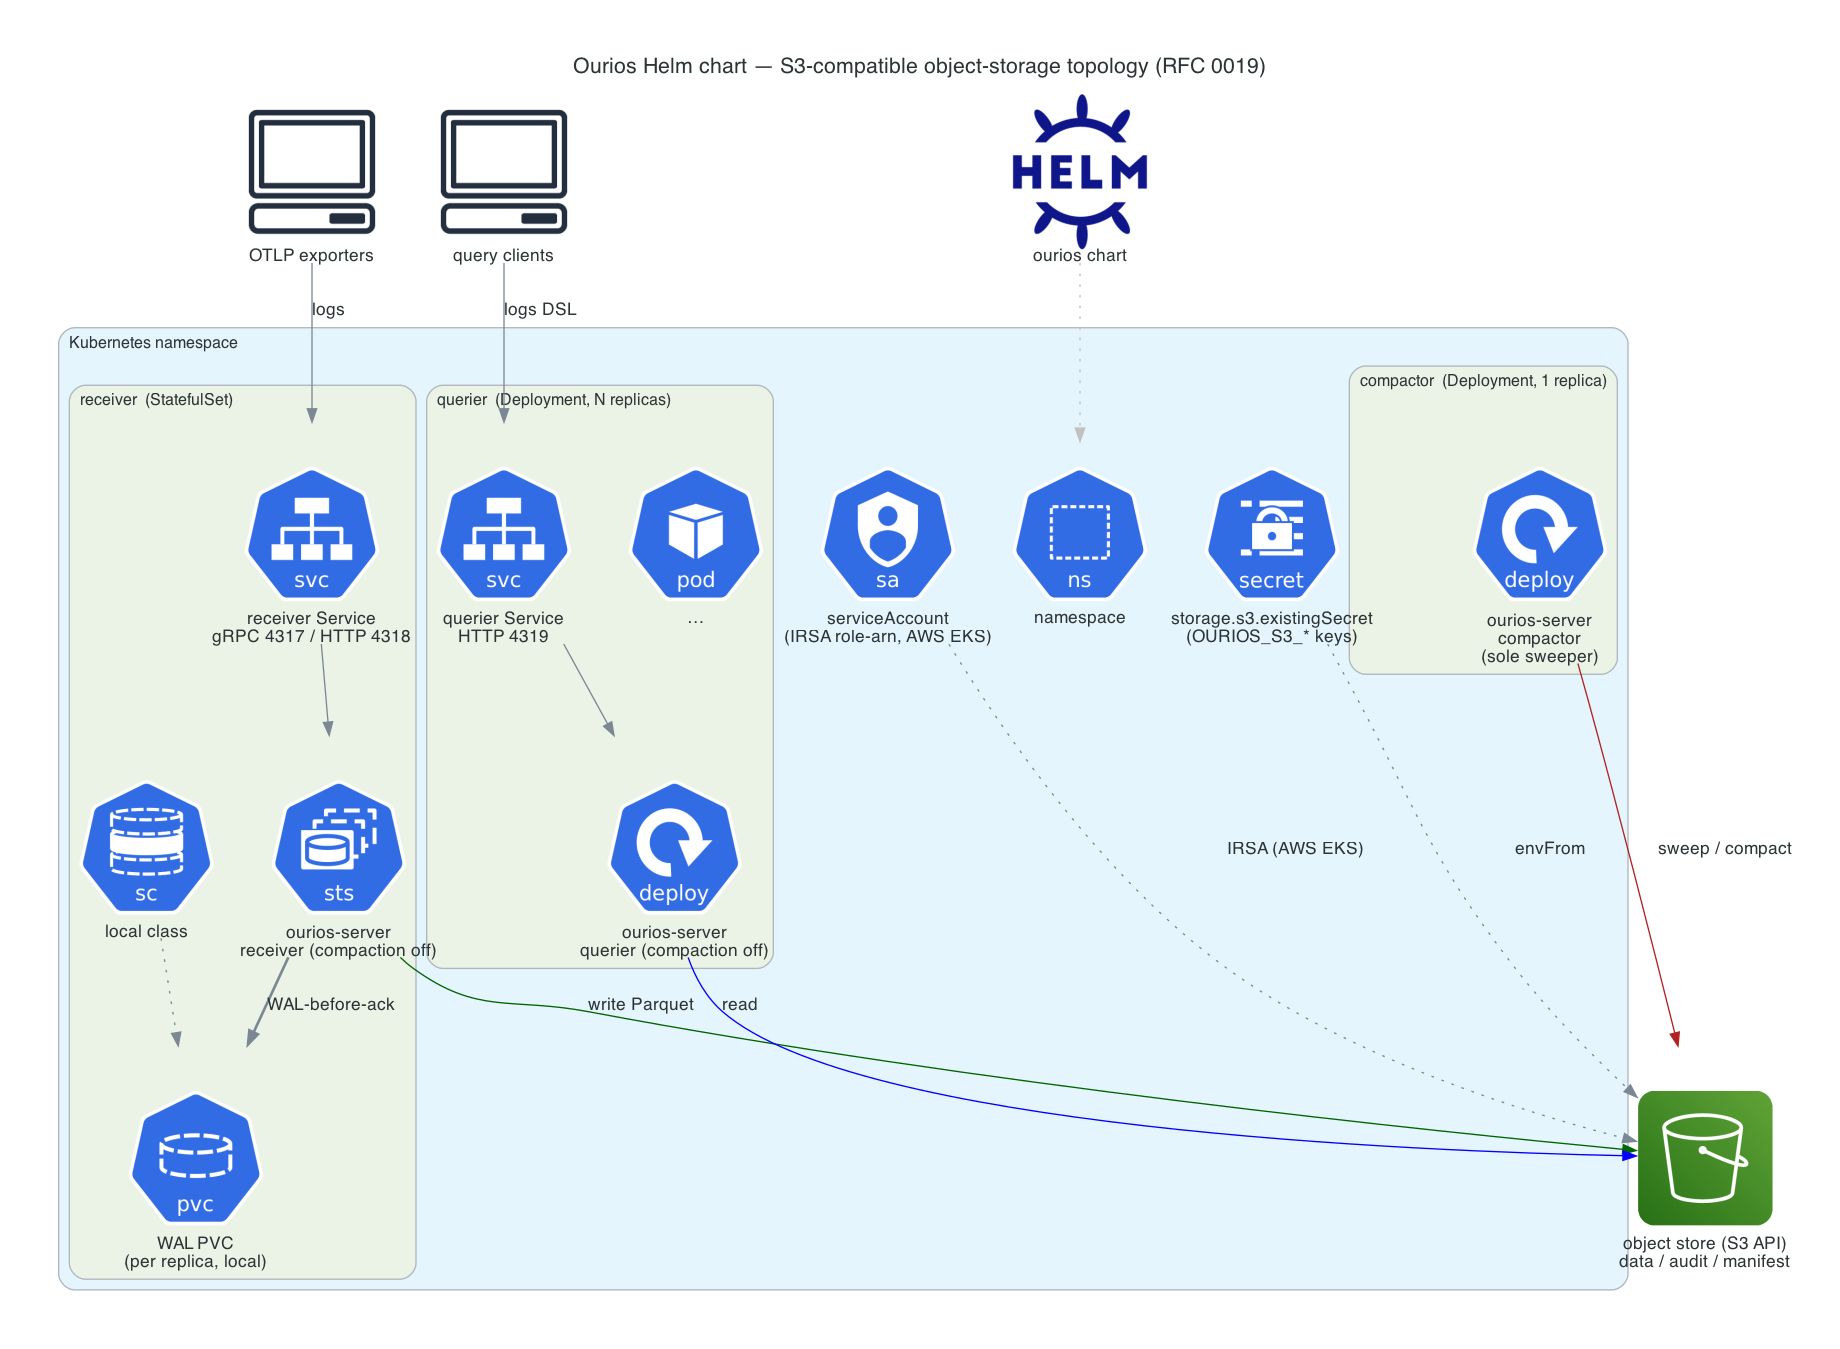
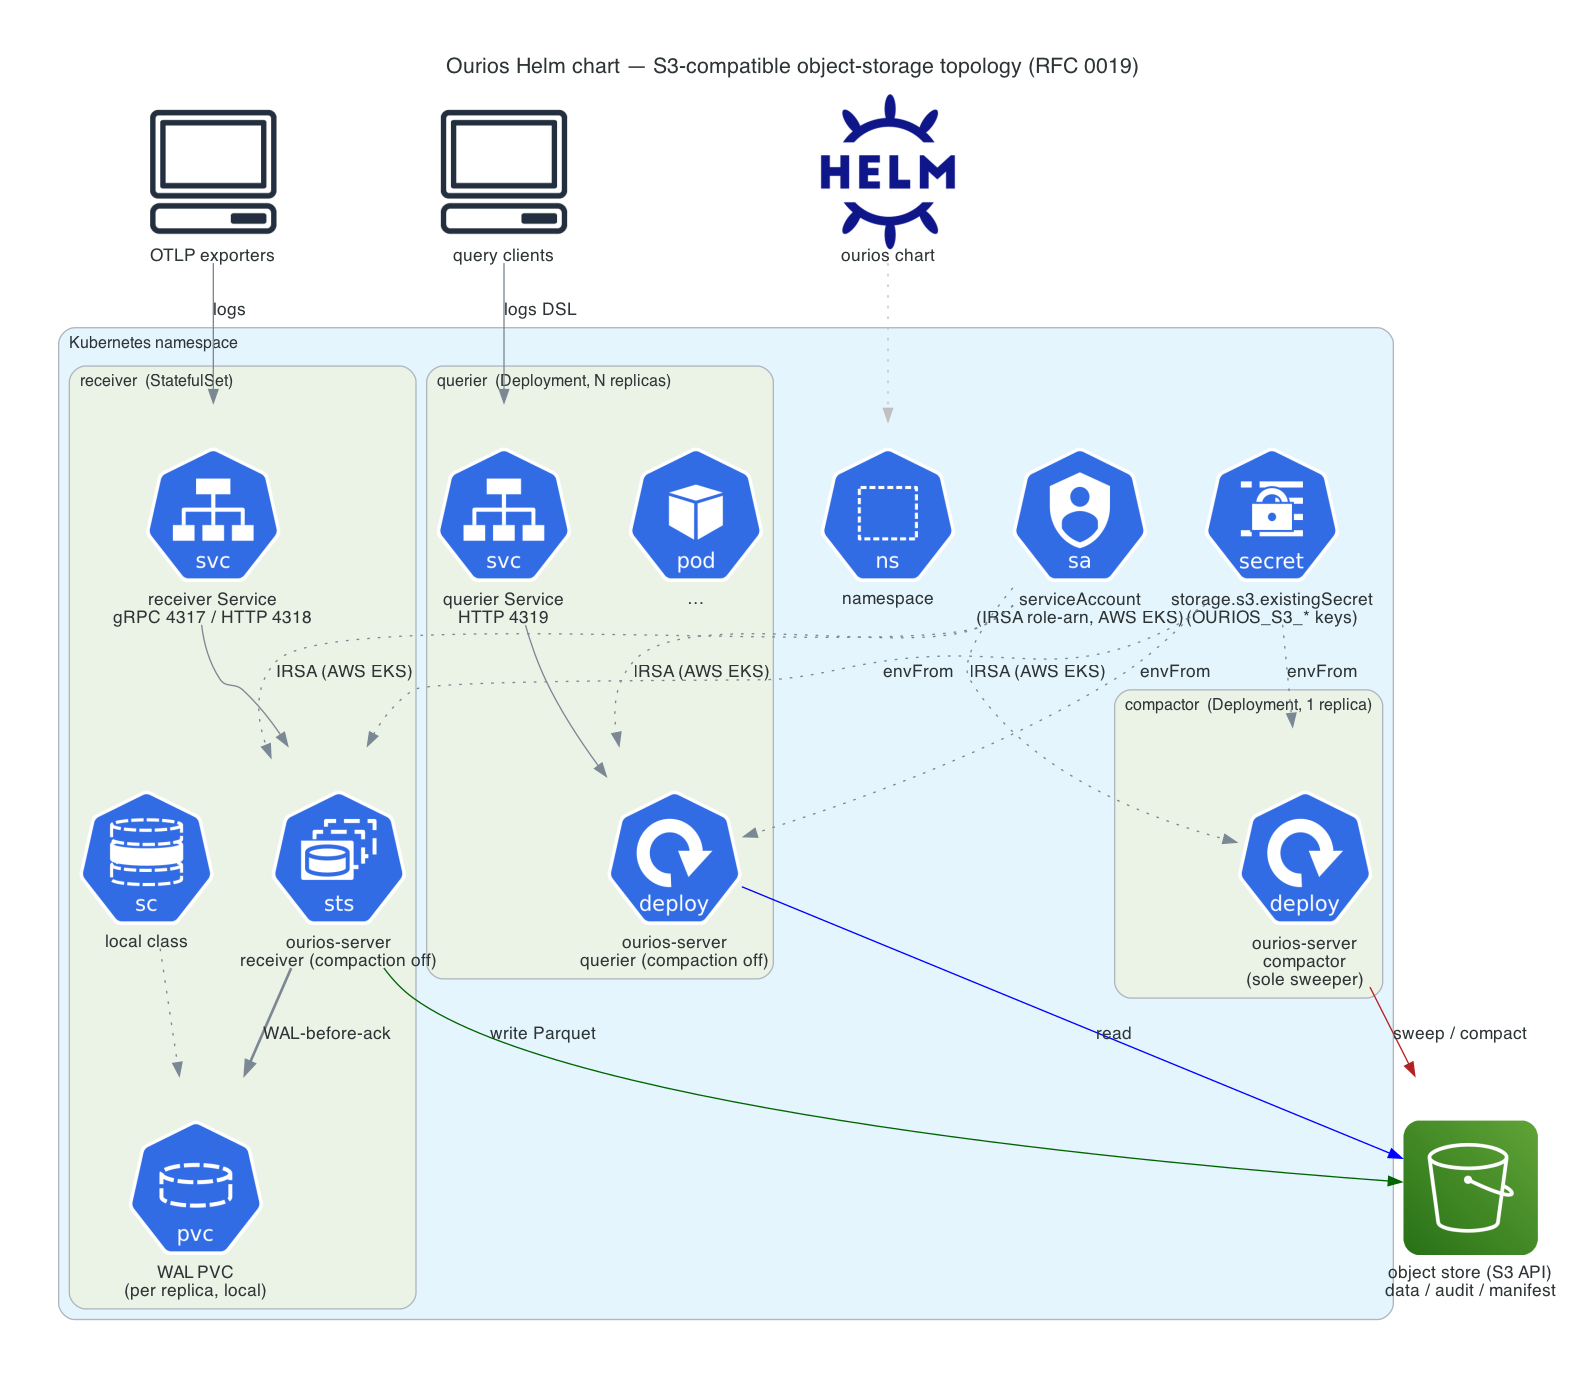
fix(helm): route diagram cred edges via workloads; ship PNG; guard IRSA SA
Address #304 review (diagram + IRSA edge cases):
- topology.py: credentials feed the workloads (envFrom/IRSA), which then
  read/write/sweep the store — not Secret/SA pointing at the store directly
  (correct trust boundary). PNG regenerated.
- .helmignore: ship docs/topology.png (so the README image resolves from the
  chart artifact / Artifact Hub), exclude only docs/*.py (the generator).
- README: chart-relative regen command; note IRSA requires serviceAccount.create=true.
- _helpers: fail render when an IRSA role-arn is set with serviceAccount.create=false
  (the chart renders no SA, so the annotation would silently have no effect).

helm lint + template verified: default + s3+IRSA render; s3+IRSA+create=false
fails; package ships the PNG and excludes the script.

diff --git a/deploy/helm/ourios/docs/topology.py b/deploy/helm/ourios/docs/topology.py
@@ -93,7 +93,10 @@ with Diagram(
     qry[0] >> Edge(label="read", color="blue") >> s3
     cmp >> Edge(label="sweep / compact", color="firebrick") >> s3
 
-    # Credentials reach the store one of two mutually-exclusive ways: a mounted
-    # Secret of S3-named keys (envFrom) OR, on AWS EKS, IRSA on the ServiceAccount.
-    secret >> Edge(style="dotted", label="envFrom") >> s3
-    sa >> Edge(style="dotted", label="IRSA (AWS EKS)") >> s3
+    # Credentials are consumed by the workloads (the pods authenticate to the
+    # store), one of two mutually-exclusive ways: a mounted Secret of S3-named
+    # keys (envFrom) OR, on AWS EKS, IRSA on the ServiceAccount. The pods then use
+    # them on the existing workload→store paths above.
+    for workload in (rcv, qry[0], cmp):
+        secret >> Edge(style="dotted", label="envFrom") >> workload
+        sa >> Edge(style="dotted", label="IRSA (AWS EKS)") >> workload

diff --git a/deploy/helm/ourios/README.md b/deploy/helm/ourios/README.md
@@ -25,9 +25,10 @@ them as three workloads sharing a data + audit store on object storage:
 ![Ourios Helm chart topology](docs/topology.png)
 
 Diagram source: [`docs/topology.py`](docs/topology.py) (mingrammer
-[`diagrams`](https://diagrams.mingrammer.com/), k8s node set). Regenerate with
-`python deploy/helm/ourios/docs/topology.py` (needs Graphviz + `pip install
-diagrams`). A text fallback follows for terminal / `helm show readme`:
+[`diagrams`](https://diagrams.mingrammer.com/), k8s node set). Regenerate from
+this chart directory with `python docs/topology.py` (or
+`python deploy/helm/ourios/docs/topology.py` from the repo root; needs Graphviz +
+`pip install diagrams`). A text fallback follows for terminal / `helm show readme`:
 
 ```
             OTLP                         query
@@ -129,7 +130,11 @@ Ceph, …). Supply exactly one of:
    ```
 
    The pod assumes the role; no static keys exist anywhere. This mode is
-   AWS-specific; on other providers use `storage.s3.existingSecret`.
+   AWS-specific; on other providers use `storage.s3.existingSecret`. It requires
+   `serviceAccount.create=true` (the default) so the chart renders the
+   ServiceAccount and applies the annotation — the chart fails render if a
+   role-arn is set with `serviceAccount.create=false`. To use an existing SA,
+   annotate it out-of-band instead.
 
 Setting **both** `storage.s3.existingSecret` and the IRSA `role-arn` annotation
 **fails render** — the static keys would shadow the web-identity credentials, so